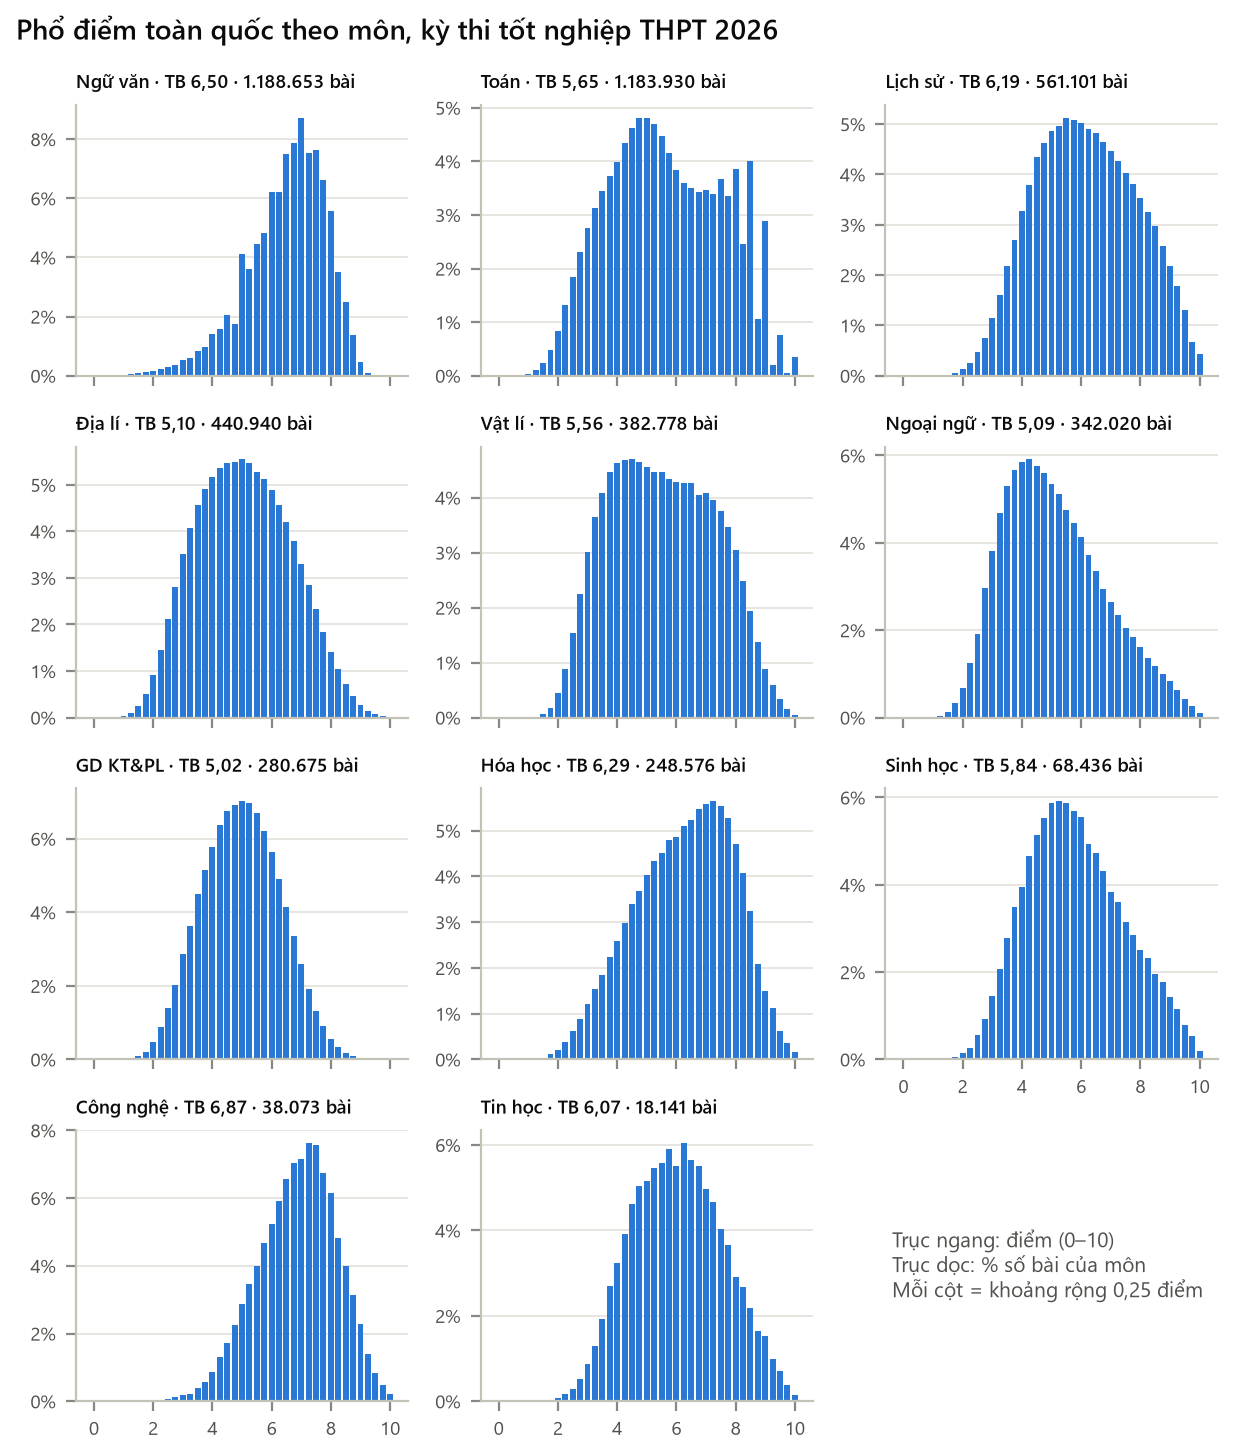
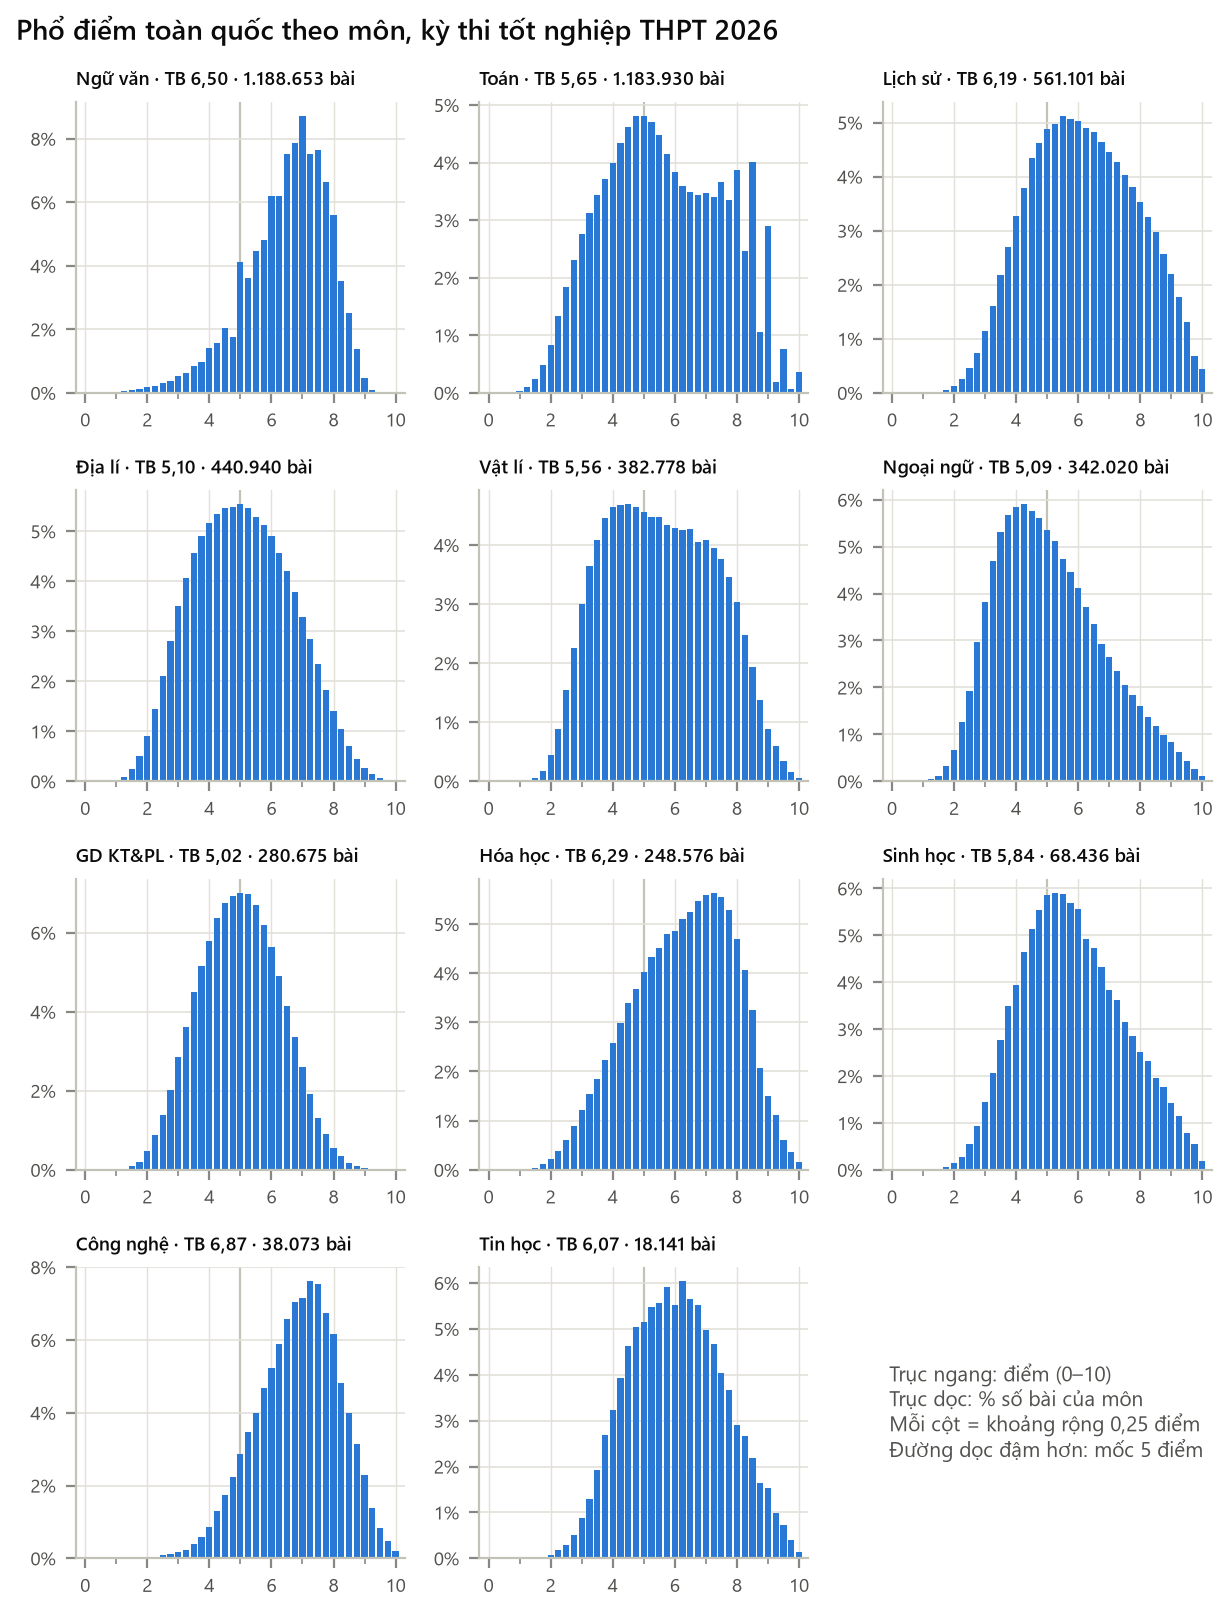
H5.1: hiện số điểm trên trục ngang ở mọi panel, thêm vạch điểm lẻ và mốc 5 điểm

diff --git a/bao_cao/ve_hinh.py b/bao_cao/ve_hinh.py
@@ -233,23 +233,27 @@ def h5_1():
     # bội 0,25 mà gom vào khoảng rộng 0,25 (tâm ở các mức 0; 0,25; ...; 10).
     p["bin"] = (p.diem * 4).round() / 4
     order = cl.sort_values("so_bai", ascending=False).index
-    fig, axes = plt.subplots(4, 3, figsize=(W, 7.4), sharex=True)
+    fig, axes = plt.subplots(4, 3, figsize=(W, 8.2))
     for ax, mon in zip(axes.flat, order):
         g = p[p.mon == mon].groupby("bin").so_bai.sum()
         g = g / g.sum()
-        ax.bar(g.index, g.values, width=0.2, color=BLUE, lw=0)
+        # mốc 5 điểm: đường mảnh, nằm dưới cột, giúp mắt định vị thang điểm
+        ax.axvline(5, color=AXIS, lw=0.8, zorder=0)
+        ax.bar(g.index, g.values, width=0.2, color=BLUE, lw=0, zorder=2)
         ax.set_title(f"{ten[mon]} · TB {vn(cl.loc[mon, 'tb_toan_quoc'])} · {vn(cl.loc[mon, 'so_bai'], 0)} bài",
                      fontsize=7)
         ax.yaxis.set_major_formatter(vn_pct())
-        ax.grid(axis="x", visible=False)
+        ax.set_xlim(-0.3, 10.3)
+        ax.set_xticks(range(0, 11, 2))                     # số ở mọi panel: 0, 2, 4, …, 10
+        ax.set_xticks(range(1, 10, 2), minor=True)         # vạch nhỏ ở điểm lẻ
+        ax.tick_params(which="minor", length=2, color=MUTED)
+        ax.grid(axis="x", which="major", color=GRID, lw=0.5, zorder=0)
         ax.tick_params(labelsize=7)
     last = axes.flat[-1]
     last.set_axis_off()
-    last.text(0.02, 0.5, "Trục ngang: điểm (0–10)\nTrục dọc: % số bài của môn\nMỗi cột = khoảng rộng 0,25 điểm",
+    last.text(0.02, 0.5, "Trục ngang: điểm (0–10)\nTrục dọc: % số bài của môn\nMỗi cột = khoảng rộng 0,25 điểm\n"
+              "Đường dọc đậm hơn: mốc 5 điểm",
               fontsize=7.5, color=INK2, va="center", transform=last.transAxes)
-    for ax in axes[-1]:
-        ax.set_xticks(range(0, 11, 2))
-    axes[-2, -1].tick_params(labelbottom=True)
     fig.suptitle("Phổ điểm toàn quốc theo môn, kỳ thi tốt nghiệp THPT 2026", x=0.01, ha="left",
                  fontsize=10, weight="semibold")
     fig.tight_layout()
